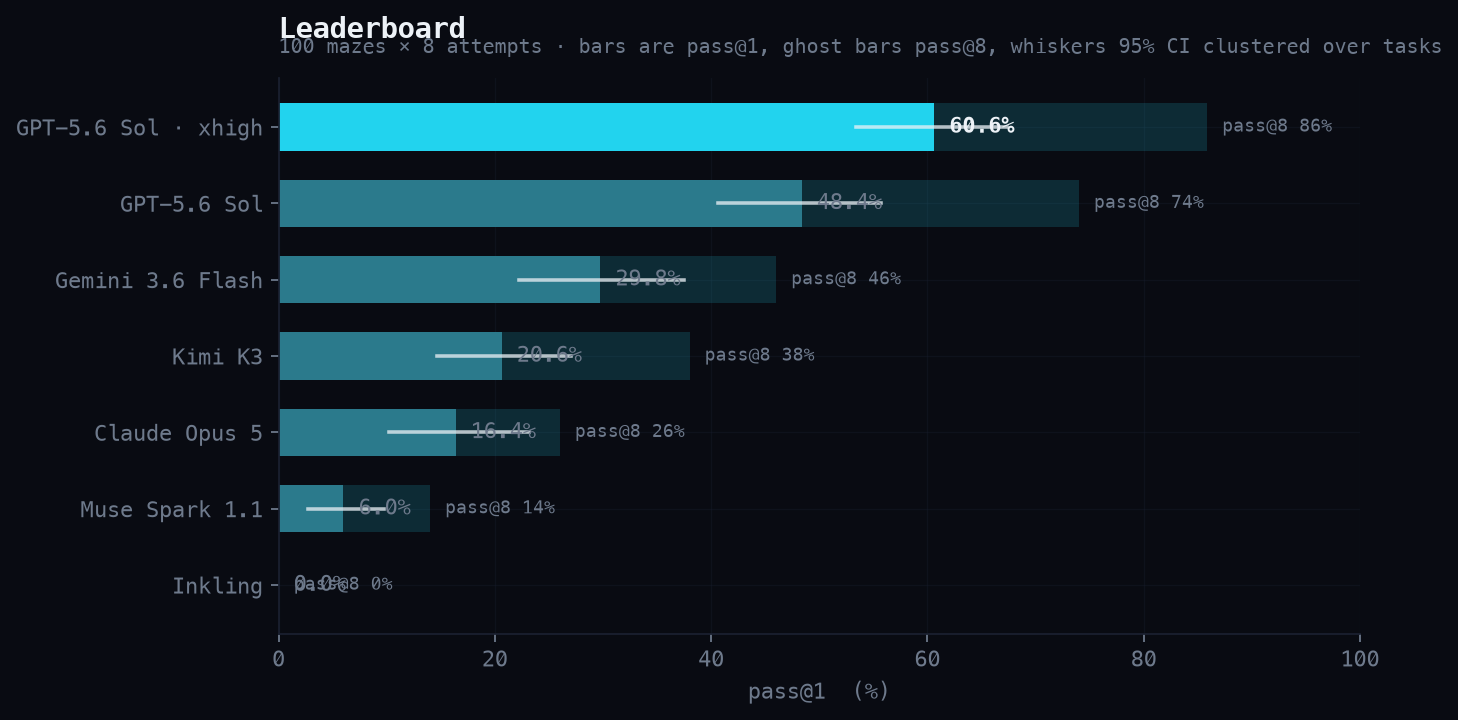
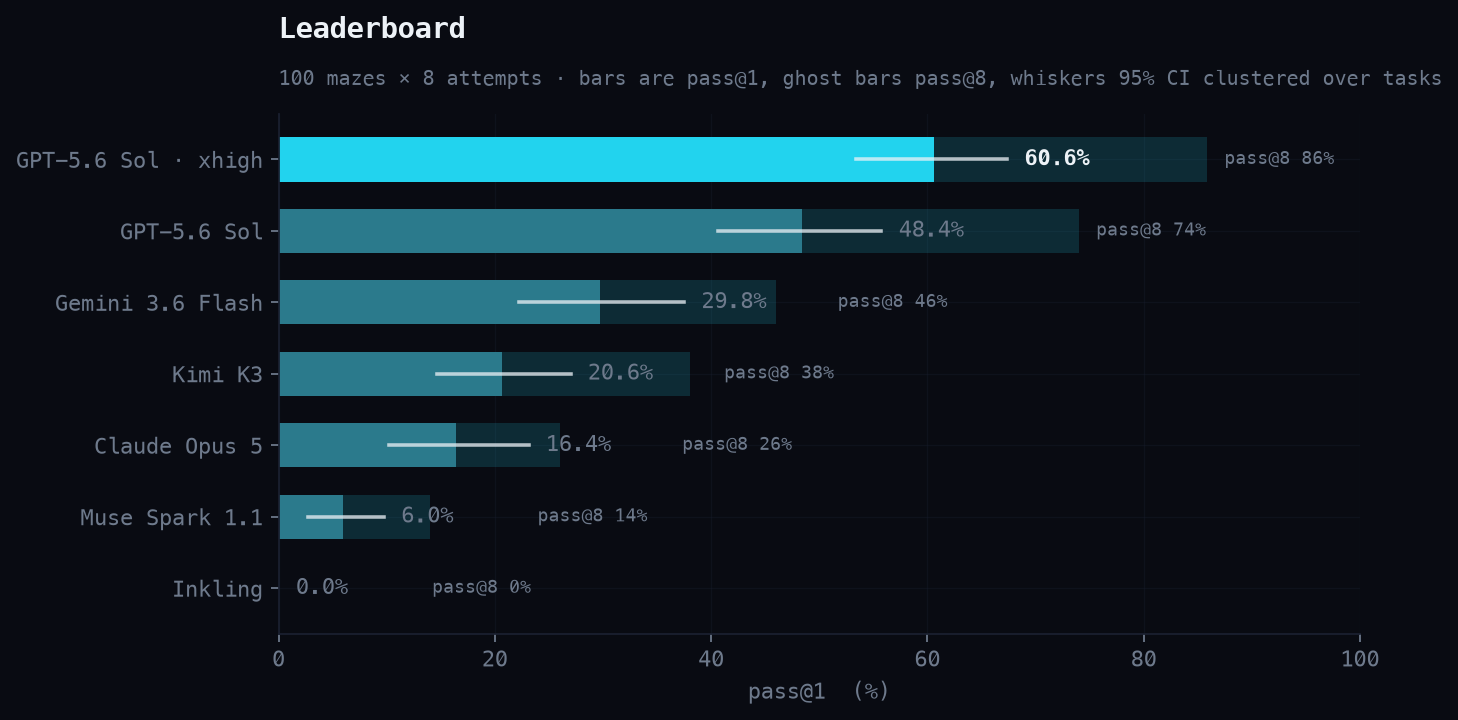
Chart fixes, ablation intuitions, dataset-vs-study framing
Figures: subtitle spacing under titles; leaderboard pass@1 labels now clear
the CI whiskers, and the pass@8 label clears the pass@1 label (they collided
at Inkling's 0%).

Every ablation now opens with a 1-2 sentence statement of the intuition it
tests. The feedback section documents the message-history shape: true
multi-turn with the full history retained — N images in context at turn N
(original maze + one overlay per prior attempt), verified from stored usage
token growth (1.4K -> 19K -> 25K -> 30K across a 4-turn episode).

Protocol table and README now state explicitly that the dataset is 1,000
tasks while every evaluated number is from the frozen 100-task subset; the
other 800 ship unevaluated as headroom and contamination audit material.

diff --git a/scripts/make_figures.py b/scripts/make_figures.py
@@ -55,9 +55,9 @@ def _frame(ax, title=None, sub=None):
     ax.grid(True, alpha=0.35, linewidth=0.6)
     ax.set_axisbelow(True)
     if title:
-        ax.set_title(title, loc="left", pad=18 if sub else 10)
+        ax.set_title(title, loc="left", pad=34 if sub else 10)
     if sub:
-        ax.text(0, 1.045, sub, transform=ax.transAxes, color=DIM, fontsize=9)
+        ax.text(0, 1.055, sub, transform=ax.transAxes, color=DIM, fontsize=9)
 
 
 def save(fig, name):
@@ -93,9 +93,11 @@ def fig_leaderboard(rows):
         ax.barh(i, 100 * p8, height=0.62, color=CYAN, alpha=0.16)
         ax.barh(i, 100 * m, height=0.62, color=CYAN if lead else "#2B7A8C")
         ax.plot([100 * lo, 100 * hi], [i, i], color=WHITE, lw=1.6, alpha=0.75)
-        ax.text(100 * m + 1.4, i, f"{100*m:.1f}%", va="center", color=WHITE if lead else DIM,
+        label_x = 100 * hi + 1.6              # past the whisker, never under it
+        ax.text(label_x, i, f"{100*m:.1f}%", va="center", color=WHITE if lead else DIM,
                 fontsize=10, fontweight="bold" if lead else "normal")
-        ax.text(100 * p8 + 1.4, i, f"pass@8 {100*p8:.0f}%", va="center", color=DIM, fontsize=8)
+        p8_x = max(100 * p8, label_x + 11) + 1.6   # clears the pass@1 label too
+        ax.text(p8_x, i, f"pass@8 {100*p8:.0f}%", va="center", color=DIM, fontsize=8)
     ax.set_yticks(y, [NAMES[p] for *_, p in data])
     ax.set_xlim(0, 100)
     ax.set_xlabel("pass@1  (%)")

diff --git a/STUDY.md b/STUDY.md
@@ -82,6 +82,7 @@ subsequent departure is recorded as a dated amendment in `ANALYSIS_PLAN.md`.
 | | |
 |---|---|
 | Task set | `evals/dev-eval-100.txt` — 100 dev tasks, ILP-selected for 12–13 per family, tiers 30/40/30, every archetype ≥6 |
+| Dataset vs. study | the dataset is 1,000 tasks; **every number in this study is from the 100-task subset** (×8 trials). test-public (300) and test-hidden (500, encrypted) ship unevaluated, as headroom for future runs and contamination auditing |
 | Design | uniform flat: every model × every task × exactly 8 trials |
 | Prompt | frozen, dimension-free |
 | Order | randomized per model leg, seed recorded |
@@ -234,6 +235,11 @@ same task's main-run attempts.
 
 ### Vision validity — is it really reading *this* image?
 
+**The intuition:** a model could score above zero without doing the task —
+priors about where goals sit, geometry that "usually works." A blank canvas
+measures that floor; *another maze's* image is the stricter probe, catching a
+model that uses generic vision but not this picture.
+
 25 tasks × 2 trials × 7 models × {blank canvas, another task's image}:
 **0 passes in 700 scored attempts**, route progress ~0.000 throughout. Blind
 failure is *total, not degraded* — 97% of attempts never begin on the start
@@ -244,6 +250,11 @@ no prior-guessable floor, every leaderboard number is attributable to reading
 the specific image, and Inkling's 0.0% and Muse's 6.0% are real measurements.
 
 ### Style vs topology
+
+**The intuition:** every rendered benchmark entangles "is the structure hard?"
+with "is the picture hard?" Because topology and rendering come from
+independent seeds, the same maze can be re-painted over a byte-identical
+scored mask — making the picture the only variable.
 
 20 topologies rebuilt in 5 visual styles each, with byte-identical scored masks
 asserted per group and the reference route re-verified under every rendering.
@@ -261,6 +272,13 @@ topology difficulty.
 
 ### Input resolution
 
+**The intuition:** vision encoders downsample, so a corridor a few pixels wide
+may not survive into the model's internal representation at all — a failure no
+amount of reasoning can fix. Resending the identical maze at 0.5× and 2×
+isolates that channel. A model that improves with pixels but not with thinking
+was perception-bound; a model stuck at zero at *every* resolution cannot blame
+the encoder — its failure sits upstream of pixel budget.
+
 ![Resolution](results/figures/06-resolution.png)
 
 **Kimi more than doubles at 2× resolution (20% → 42%)** while its effort ladder
@@ -270,14 +288,27 @@ binding constraint is perceptual acuity rather than deliberation.
 
 Halving resolution hurts nearly everyone (Opus 18→6%, GPT-medium 54→32%). Two
 exceptions carry information: Gemini is flat across all three scales, and
-Inkling is 0% at every resolution — ruling out resolution as the explanation
-for its start-badge misses.
+**Inkling is 0% at every resolution** — which closes the loop on its diagnosis.
+Its coordinate fingerprints (§8) show 68% of its outputs on an exact 0.01 grid
+and 25px median start-badge misses, i.e. round numbers from a mental sketch;
+this ablation rules out the charitable alternative that it simply couldn't see
+fine detail. More pixels change nothing because it was not using the pixels.
 
 ### Closed-loop feedback
+
+**The intuition:** the agentic-loop assumption is that showing a model its
+error beats a fresh guess. This tests the cheapest version on a task where the
+error is visually exact — no diagnosis required, only re-perception of one
+marked location. If closed-loop correction works anywhere, it should work here.
 
 Models were shown their own failed path drawn over the maze with a ⊗ at the
 exact point they left the corridor, told only the failure category, and asked
 again — up to four turns, stopping at first success. No oracle geometry.
+These are true multi-turn conversations with the full history retained: at
+turn 2 the context holds two images (the original maze plus the overlay of
+attempt 1), at turn 3 three, and so on — verified from stored usage, where
+input tokens grow monotonically per turn (e.g. 1.4K → 19K → 25K → 30K). The
+original image is never dropped.
 
 ![Feedback](results/figures/07-feedback.png)
 
@@ -296,6 +327,11 @@ signal might do better. What these data rule out is that the obvious version
 works.
 
 ### Dimension disclosure
+
+**The intuition:** submissions are normalized, so the model must implicitly
+know the canvas size to convert a measured pixel into a coordinate. Disclosure
+removes that conversion step — so whether it helps or hurts localizes whether
+a model's errors live in measurement or in normalization.
 
 Telling the model the canvas size redistributes rather than lifts: GPT +8pp,
 Gemini −8pp, Opus +2pp, netting ~zero — replicating a 25-task pilot within 1–4

diff --git a/results/ablations.md b/results/ablations.md
@@ -8,6 +8,13 @@ same task's main-run attempts. Baselines below are each model's main-run rate
 
 ## 1. Blind (H4) — does the score come from seeing *this* image?
 
+**The intuition:** a model could score above zero without doing the task —
+memorized maze layouts, priors about where goals usually sit, or geometry that
+"usually works" on benchmark mazes. Sending a blank canvas measures that
+prior-only floor directly; sending *another maze's* image is the stricter
+version, catching a model that uses generic vision but not this picture. If
+either scores above zero, the leaderboard partly measures guessing.
+
 `evals/ablation-25.txt`, k=2, 7 legs, 700 attempts. Two variants: a neutral
 canvas at the task's true dimensions, and another task's render assigned by a
 tier-matched seeded derangement.
@@ -39,6 +46,16 @@ have been the single most damaging possible result, and it did not happen.
 
 ## 2. Input resolution — is perception resolution-bound?
 
+**The intuition:** vision encoders see a downsampled image, so a corridor a
+few pixels wide may simply not survive into the model's internal
+representation — in which case no amount of reasoning can recover it. Resending
+the identical maze at 2× and 0.5× isolates that channel: if a model improves
+with pixels but not with thinking (Kimi), its ceiling was perceptual acuity all
+along. And a model stuck at zero *regardless of resolution* (Inkling) cannot
+blame the encoder — its failure is upstream of pixel budget, which is exactly
+what its coordinate fingerprints (0.01-grid snapping, 25px badge misses)
+independently suggest: it is not reading the image at any resolution.
+
 `evals/ablation-25.txt`, k=2, 6 legs, 600 attempts. Send-time rescale only;
 mask and ground truth untouched, so scoring is identical.
 
@@ -67,6 +84,15 @@ the explanation for its 42% start-badge miss.
 
 ## 3. Dimension disclosure (H7) — does telling the model the canvas size help?
 
+**The intuition:** submissions are normalized coordinates, so a model must
+implicitly know the canvas size to convert "the badge is at pixel (55, 527)"
+into (0.069, 0.712). Telling it the true dimensions removes that conversion
+step. If disclosure helps, the model was measuring pixels correctly and
+fumbling the normalization; if it hurts, the model was reasoning
+proportionally and the numbers distracted it. Either way it localizes *where*
+in the pipeline errors live — which is why the effect redistributes instead of
+lifting.
+
 Full `dev-eval-100`, k=2, 4 legs, 800 attempts, paired per task against each
 model's main-run attempts under the frozen dimension-free prompt.
 
@@ -89,6 +115,21 @@ scale from the image alone, so the disclosure becomes redundant — the benefit 
 ---
 
 ## 4. Feedback (H6) — can a model correct its own failed drag?
+
+**The intuition:** the agentic-loop assumption is that showing a model its
+error makes the retry better than a fresh guess. This tests the cheapest
+version of that loop on a task where the error is *visually exact*: here is
+your path, here is the pixel where it left the corridor. If closed-loop
+correction works anywhere, it should work here — the fix requires no
+diagnosis, only re-perception of one marked location. The baseline that makes
+the test fair is the model's own pass@1: an informed retry must beat an
+uninformed one, or the loop is worthless.
+
+**Message history:** true multi-turn — each turn's context contains the full
+prior conversation. At turn 2 the model sees 2 images (the original maze and
+the overlay of its first attempt); at turn 3, 3 images, and so on. Verified
+from stored usage: input tokens grow monotonically per turn (e.g. 1.4K → 19K →
+25K → 30K). The original image is never dropped.
 
 `evals/ablation-50.txt`, ≤4 turns, stop at first success, 5 legs, true
 multi-turn conversations. Feedback is the failure category plus the model's own
@@ -152,6 +193,14 @@ cheapest and most natural version working at all.
 ---
 
 ## 5. Style-swap (H3) — is rendering style a difficulty axis of its own?
+
+**The intuition:** every rendered benchmark quietly entangles two questions —
+is the *structure* hard, or is the *picture* hard? Because MazeRunner generates
+topology and rendering from independent seeds, the same maze can be re-painted
+with a byte-identical scored mask, making the picture the only variable. If
+pass rates move across renderings of one fixed maze, "style difficulty" is
+real and a fixed-style benchmark would be silently mis-attributing it to
+topology.
 
 20 topologies × 5 archetypes = 100 variants, k=3, 5 legs, 1,494 scored
 attempts. Every variant in a pair-group is asserted to share its source's

diff --git a/README.md b/README.md
@@ -18,7 +18,10 @@ fails 39% of the time.
 
 ## Results
 
-100 mazes × 8 attempts, frozen protocol, task-clustered 95% CIs:
+100 mazes × 8 attempts, frozen protocol, task-clustered 95% CIs. (The dataset
+is 1,000 tasks; every evaluated number here is from the frozen 100-task dev
+subset — the other 800 tasks ship unevaluated as headroom for future runs and
+contamination auditing.)
 
 | Model | pass@1 | 95% CI | pass@8 | Route progress |
 |---|---|---|---|---|
